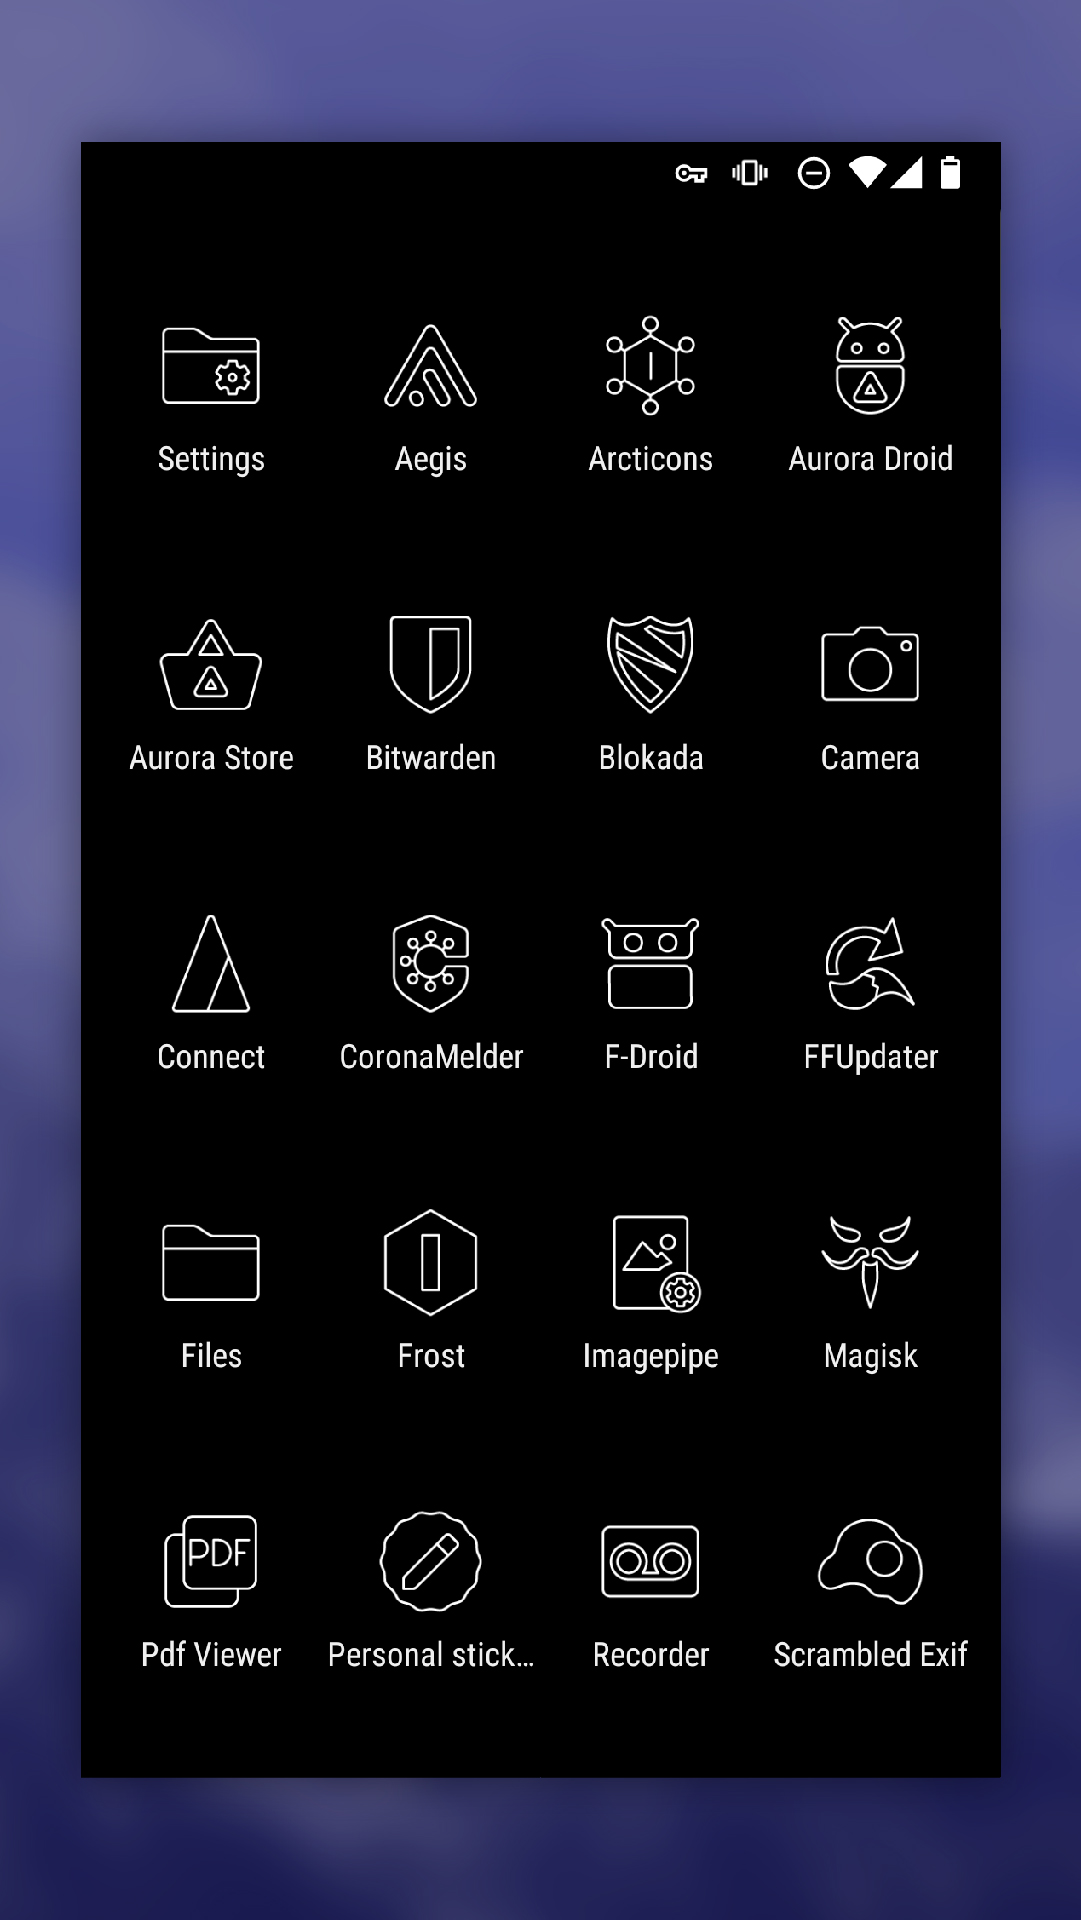
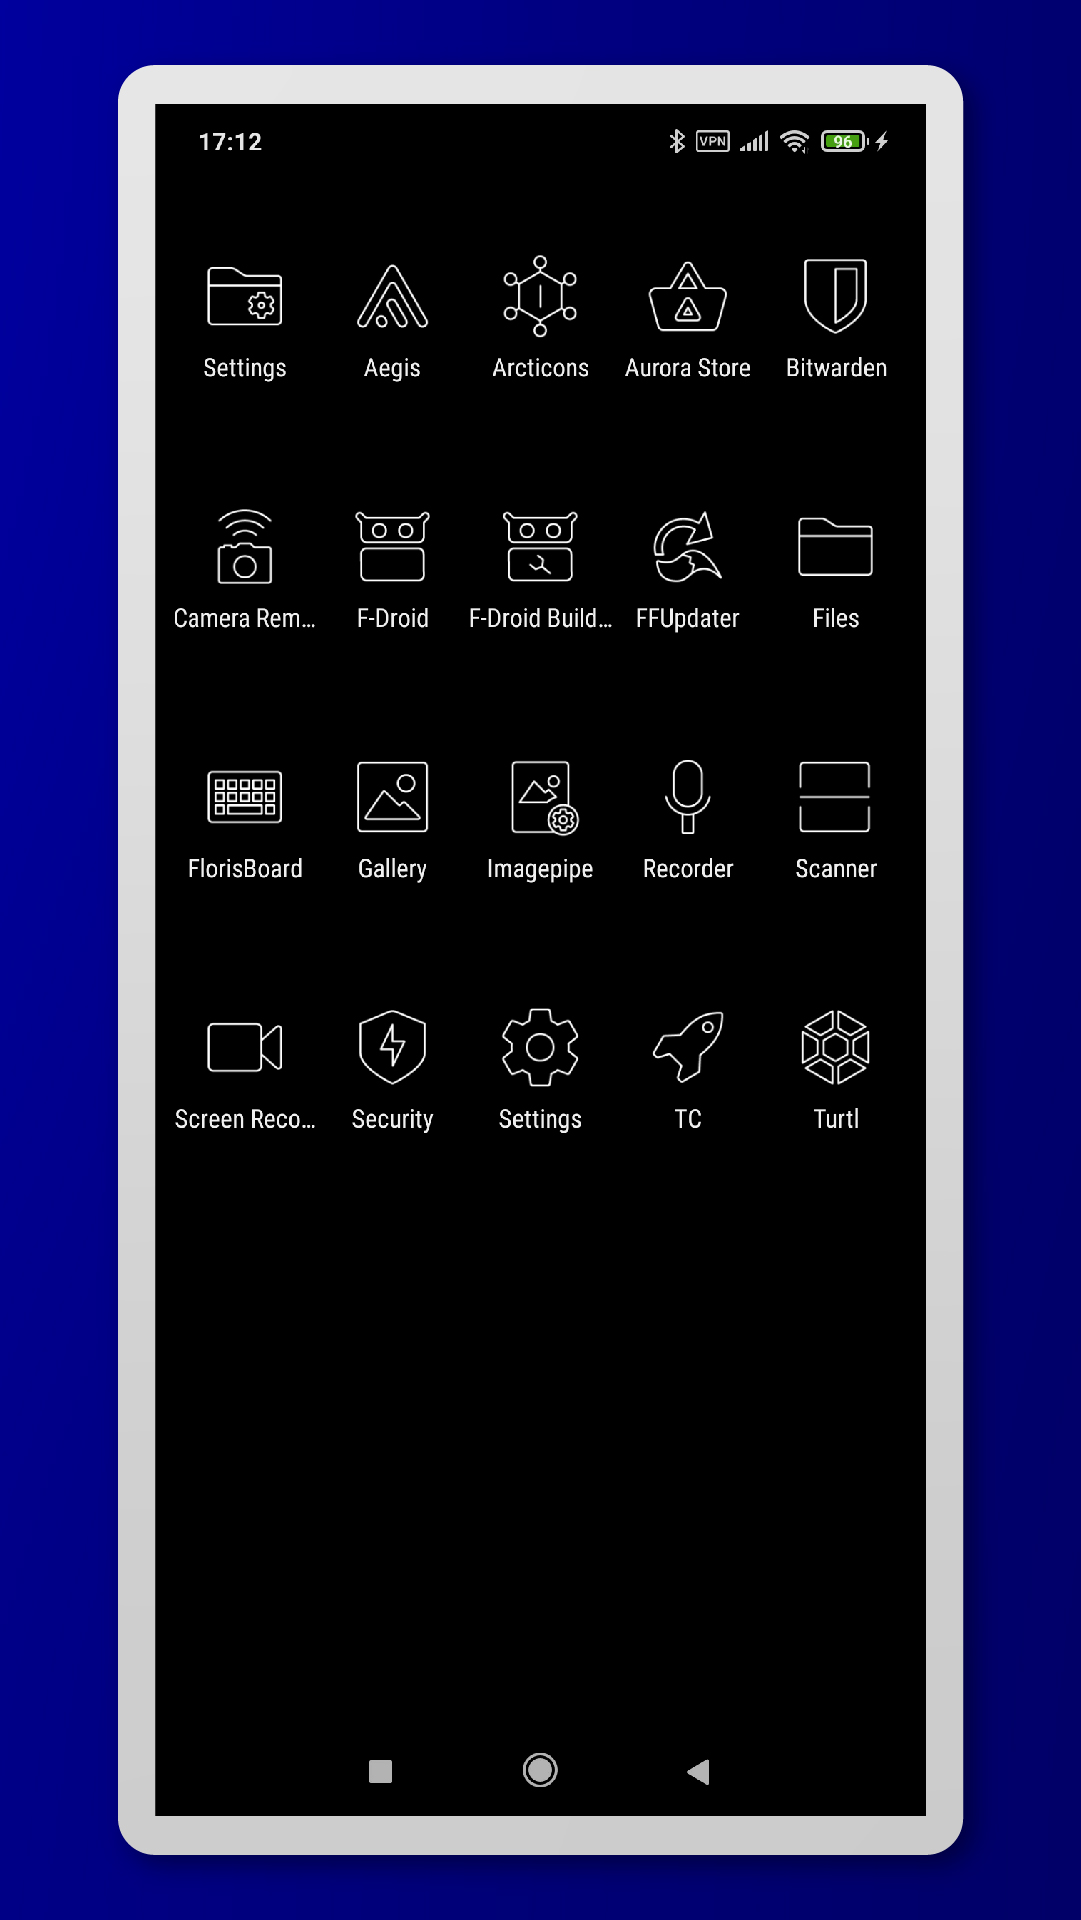
1.6.0 release things

diff --git a/README.md b/README.md
@@ -10,7 +10,7 @@ Arcticons includes support for a lot of lauchers like Trebuchet, KISS, Nova, Ape
 
 Submitting icon requests helps a lot, but maintaining the project (as you may imagine) takes a lot of time and effort, so please be patient about adding new icons. Contributions for new icons are always welcome, and no experience with programming is necessary.
 
-<img src='https://raw.githubusercontent.com/Donnnno/frost-lines/main/metadata/en-US/images/screenshots.png'>
+<img src='https://raw.githubusercontent.com/Donnnno/frost-lines/main/metadata/en-US/images/screenshots.jpg'>
 
 ## Icon Requests
 

diff --git a/CHANGELOG.md b/CHANGELOG.md
@@ -1,3 +1,11 @@
+### 1.6.0
+###### Released: Apr 25, 2021
+* The final part of the redesign crusade, there are now 282(!) icons that look a lot cleaner!
+* 28 new icons
+* Some double icons are removed and replaced with existing ones
+* 1558 icons in total!
+
+
 ### 1.5.5
 ###### Released: Apr 11, 2021
 * Part two of my ongoing redesign crusade, with this time 100(!) redesigned icons!
@@ -5,7 +13,6 @@
 * 1563 icons in total!
 
 ![changelog155](https://user-images.githubusercontent.com/31142286/114383817-4201af00-9b8e-11eb-9bf2-9e4ed9684128.jpg)
-
 
 ### 1.5.2
 ###### Released: Apr 5, 2021
